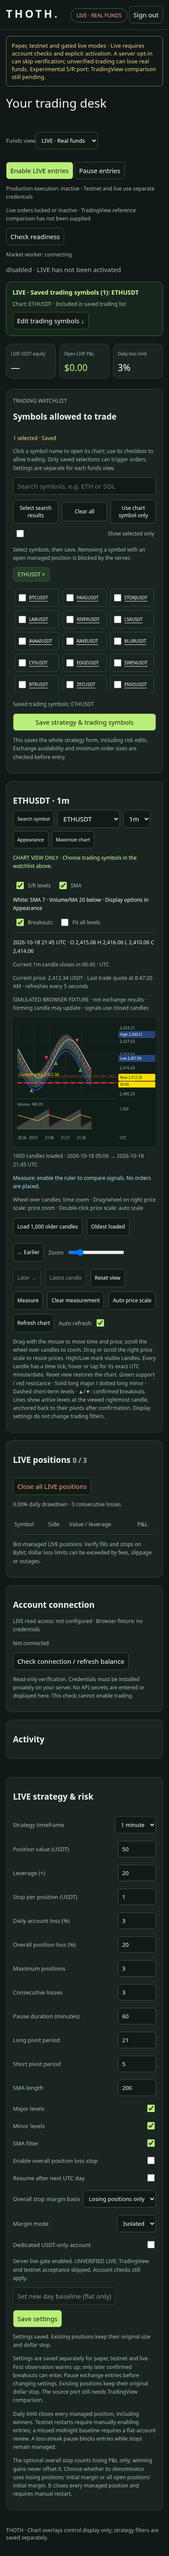
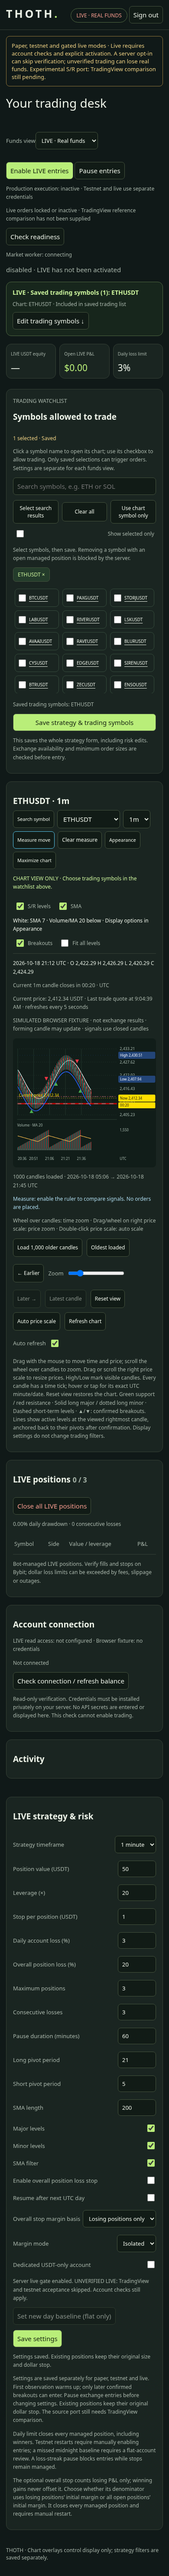
Make chart measurement a prominent one-shot mouse and touch tool

diff --git a/web/index.html b/web/index.html
@@ -1,3 +1,3 @@
 <!doctype html><html lang="en"><head><meta charset="utf-8"><meta name="viewport" content="width=device-width,initial-scale=1"><meta name="theme-color" content="#101918"><link rel="manifest" href="/manifest.webmanifest"><title>THOTH · Trading desk</title><style>
 *{box-sizing:border-box}[hidden]{display:none!important}body{margin:0;background:#101918;color:#edf3e8;font:15px system-ui}header,main{max-width:1150px;margin:auto;padding:24px}header{display:flex;justify-content:space-between;border-bottom:1px solid #354036}.brand{font-size:25px;letter-spacing:5px;font-weight:bold}small,p,label{color:#a8b5aa}h1{font-size:34px;font-weight:500}h2{font-size:19px}.badge,.green{color:#b9ee79}.badge{border:1px solid #536b43;padding:7px 12px;border-radius:20px;font-size:12px}.stats{display:grid;grid-template-columns:repeat(3,1fr);gap:14px}.card{padding:20px;background:#1a2521;border:1px solid #354036;border-radius:12px;margin-bottom:18px}.value{font-size:29px;margin-top:10px}.grid{display:grid;grid-template-columns:2fr 1fr;gap:20px;margin-top:6px}button,select,input{background:#111b16;color:#edf3e8;border:1px solid #45533e;border-radius:7px;padding:9px;font:inherit}button{cursor:pointer}.primary{background:#b9ee79;color:#13200f}label{display:flex;justify-content:space-between;align-items:center;margin:17px 0;font-size:13px}input[type=number]{width:88px}.row{display:flex;justify-content:space-between;gap:12px;align-items:center}svg{width:100%;height:290px}.legend{font-size:12px;line-height:1.8}table{width:100%;border-collapse:collapse;font-size:13px}td,th{padding:15px 3px;text-align:left;border-bottom:1px solid #354036}th{color:#a8b5aa;font-weight:400}.red{color:#fc9e91}.note{font-size:12px;line-height:1.6}.chips{display:flex;gap:12px;flex-wrap:wrap}.chips label{margin:8px 0;gap:6px}footer{font-size:12px;color:#a8b5aa;padding:20px 0}@media(max-width:750px){.grid{grid-template-columns:1fr}main,header{padding:16px}.stats{gap:8px}.stats .card{padding:12px}.value{font-size:23px}h1{font-size:29px}.row{flex-wrap:wrap}}
-</style><style>#coins{max-height:270px;overflow:auto}#events{padding-left:18px;font-size:12px;color:#a8b5aa;line-height:1.8}#price{width:110px}select{max-width:180px}input[type=search]{width:100%}dialog{max-width:min(480px,90vw);background:#1a2521;color:#edf3e8;border:1px solid #45533e;border-radius:12px}dialog input{max-width:100%}button:disabled{opacity:.5;cursor:not-allowed}fieldset:disabled{opacity:.65}.banner{border:1px solid #90753a;color:#ebce82;padding:12px;border-radius:8px;font-size:13px}</style><link rel="stylesheet" href="/desk.css"></head><body><header><div class="brand">THOTH<span class="green">.</span></div><div><span class="badge" id="fundsBadge">PAPER FUNDS</span> <button id="logout">Sign out</button></div></header><main><div class="banner">Paper, testnet and gated live modes · Live requires account checks and explicit activation. A server opt-in can skip verification; unverified trading can lose real funds. Experimental S/R port: TradingView comparison still pending.</div><div class="row"><h1>Your trading desk</h1><label>Funds view <select id="viewMode"><option value="paper">Paper simulation</option><option value="testnet">Bybit testnet</option><option value="live">LIVE · Real funds</option></select></label><div><button id="start" class="primary">Start paper mode</button> <button id="pause">Pause entries</button></div></div><p class="note"><span id="liveAccountState">Production execution: inactive</span> · Testnet and live use separate credentials</p><p id="readinessMessage" class="note" role="status">Readiness: checking…</p><button id="checkReadiness">Check readiness</button><p id="runnerHealth" class="note">Market worker: connecting</p><p id="status" role="status">Connecting to server…</p><section class="trade-summary" aria-label="Saved trading watchlist"><strong id="savedSymbols">Trading symbols: loading…</strong><p id="chartScope" class="note"></p><button id="editSymbols">Edit trading symbols ↓</button></section><div class="stats"><div class="card"><small id="equityLabel">Paper equity</small><div class="value" id="equity">—</div></div><div class="card"><small id="pnlLabel">Open paper P&L</small><div id="pnl" class="value green">—</div></div><div class="card"><small>Daily loss limit</small><div class="value"><span id="limit">—</span>%</div></div></div><div class="grid"><div><section class="card" id="symbolPanel"><div class="row"><div><small>TRADING WATCHLIST</small><h2>Symbols allowed to trade</h2></div><span id="selection" role="status"></span></div><p class="note">Click a symbol name to open its chart; use its checkbox to allow trading. Only saved selections can trigger orders. Settings are separate for each funds view.</p><input id="search" type="search" placeholder="Search symbols, e.g. ETH or SOL" aria-label="Search trading symbols"><div class="symbol-tools"><button id="selectVisible">Select search results</button><button id="clearSymbols">Clear all</button><button id="onlyChart">Use chart symbol only</button><label><input id="selectedOnly" type="checkbox"> Show selected only</label></div><p id="watchlistLock" class="note"></p><div id="selectedSymbols" class="selected-symbols" aria-label="Draft trading symbols"></div><div class="chips" id="coins"></div><p id="symbolSaveMessage" role="status" class="note"></p><button id="saveSymbols" class="primary">Save strategy &amp; trading symbols</button><p class="note">This saves the whole strategy form, including risk edits. Exchange availability and minimum order sizes are checked before entry.</p></section><section class="card" id="chartCard" role="region" aria-labelledby="title"><div class="row chart-heading"><h2 id="title">Market chart</h2><div><button id="chartSearch" type="button" aria-haspopup="dialog">Search symbol</button><select id="symbol" aria-label="Chart symbol (view only)"></select> <select id="tf" aria-label="Chart timeframe"><option value="1">1m</option><option value="D">1D</option></select><button id="appearanceToggle" type="button" aria-expanded="false" aria-controls="chartAppearance">Appearance</button><button id="maximizeChart" type="button" aria-expanded="false">Maximize chart</button></div></div><p class="chart-scope note">CHART VIEW ONLY · Choose trading symbols in the watchlist above.</p><div class="chart-layers"><label><input id="showLevels" type="checkbox" checked> S/R levels</label><label><input id="showSma" type="checkbox" checked> SMA</label><span class="note">White: SMA 7 · Volume/MA 20 below · Display options in Appearance</span><label><input id="showSignals" type="checkbox" checked> Breakouts</label><label><input id="fitLevels" type="checkbox"> Fit all levels</label></div><div class="chart-workspace"><div class="chart-canvas"><p id="candleInfo" class="note">Hover or tap a candle to inspect OHLC prices.</p><p id="candleCountdown" class="note" aria-label="Current candle countdown"></p><p id="quoteStatus" class="note" role="status">Current price: loading…</p><p id="chartStatus" class="note" role="status"></p><svg id="chart" viewBox="0 0 640 290" role="img" aria-label="Bybit candles and SMA"></svg><p id="historyStatus" class="note" role="status"></p><p id="measurementReadout" class="note" role="status">Measure: choose two points or drag between them. Price change excludes fees and leverage.</p><p id="chartNavigationStatus" class="note" role="status"></p><div class="chart-nav"><button id="loadOlderHistory">Load 1,000 older candles</button><button id="oldest">Oldest loaded</button><button id="older">← Earlier</button><label>Zoom <input id="zoom" type="range" min="20" max="500" value="70" aria-label="Visible candles"></label><button id="newer">Later →</button><button id="latest">Latest candle</button><button id="resetChartView">Reset view</button><button id="measureChart" aria-pressed="false">Measure</button><button id="clearMeasurement">Clear measurement</button><button id="autoPriceScale">Auto price scale</button><button id="refresh">Refresh chart</button><label>Auto refresh<input id="autoChart" type="checkbox" checked></label></div><p class="note">Drag with the mouse to move time and price; scroll the wheel over candles to zoom. Drag or scroll the right price scale to resize prices. High/Low mark visible candles. Every candle has a time tick; hover or tap for its exact UTC minute/date. Reset view restores the chart. Green support / red resistance · Solid long major / dotted long minor · Dashed short-term levels · ▲/▼: confirmed breakouts. Lines show active levels at the viewed rightmost candle, anchored back to their pivots after confirmation. Display settings do not change trading filters.</p></div><aside id="chartAppearance" class="appearance-panel" hidden><div class="row"><h3>Chart appearance</h3><button id="closeAppearance" type="button" aria-label="Close appearance panel">Close</button></div><p class="note">Display only. Saved in this browser, separately from strategy and risk.</p><div id="appearanceFields"></div><button id="resetAppearance" type="button">Restore screenshot styles</button><p id="appearanceStatus" class="note" role="status"></p></aside></div></section><section class="card"><div class="row"><h2><span id="positionsTitle">Paper positions</span> <small id="count"></small></h2><button class="red" id="close">Close all paper positions</button></div><p id="lossProgress" class="note"></p><div style="overflow:auto"><table><thead><tr><th>Symbol</th><th>Side</th><th>Value / leverage</th><th>P&L</th></tr></thead><tbody id="positions"></tbody></table></div><p id="positionNote" class="note"></p></section><section class="card"><h2>Account connection</h2><p id="accountStatus" class="note" role="status">Loading testnet configuration status…</p><p id="accountBalance" class="note" role="status"></p><button id="verifyAccount">Check connection / refresh balance</button><p class="note">Read-only verification. Credentials must be installed privately on your server. No API secrets are entered or displayed here. This check cannot enable trading.</p></section><section class="card" id="paperPanel"><h2>Manual paper test</h2><p class="note">Uses the chart symbol. This bypasses indicator logic to test positions and risk controls. Enter a simulated execution/mark price.</p><form id="paperOrder"><select id="side" aria-label="Paper direction"><option>Long</option><option>Short</option></select> <input id="price" type="number" min="0.00000001" step="any" placeholder="Price" aria-label="Paper price" required> <button>Paper entry / reversal</button> <button type="button" id="mark">Update mark</button></form></section><section class="card"><h2>Activity</h2><ul id="events"></ul></section></div><aside class="card"><h2 id="settingsTitle">Paper strategy & risk</h2><form id="settings"><fieldset id="settingsGroup" style="border:0;padding:0;margin:0;min-width:0"><label>Strategy timeframe<select id="strategyTf"><option value="1">1 minute</option><option value="D">Daily</option></select></label><div id="fields"></div><label>Overall stop margin basis<select id="portfolioBasis"><option value="losing_margin">Losing positions only</option><option value="all_margin">All open positions</option></select></label><div id="testnetControls" hidden><label>Margin mode<select id="marginMode"><option value="isolated">Isolated</option><option value="cross">Cross</option></select></label><label>Dedicated USDT-only account<input type="checkbox" id="dedicated"></label><p id="testnetModeNote" class="note"></p><button type="button" id="baseline">Set new day baseline (flat only)</button><ul id="execution" class="note"></ul></div><button class="primary">Save settings</button></fieldset><p id="message" role="status" class="note"></p></form><p class="note">Settings are saved separately for paper, testnet and live. First observation warms up; only later confirmed breakouts can enter. Pause exchange entries before changing settings. Existing positions keep their original dollar stop. The source port still needs TradingView comparison.</p><p class="note">Daily limit closes every managed position, including winners. Testnet restarts require manually enabling entries; a missed midnight baseline requires a flat-account review. A loss-streak pause blocks entries while stops remain managed.</p><p class="note">The optional overall stop counts losing P&L only; winning gains never offset it. Choose whether its denominator uses losing positions’ initial margin or all open positions’ initial margin. It closes every managed position and requires manual restart.</p></aside></div><footer>THOTH · Chart overlays control display only; strategy filters are saved separately.</footer><dialog id="testnetDialog"><h2 id="activationHeading">Enable Bybit TESTNET orders</h2><p id="activationDescription">This uses testnet funds, not production funds.</p><p id="activationSymbols" class="note"></p><p>Type <strong id="activationPhraseLabel">ENABLE TESTNET ORDERS</strong> to continue.</p><input id="testnetPhrase" autocomplete="off" aria-label="Testnet activation confirmation"><p id="activationError" role="status"></p><button id="activateTestnet" class="primary">Check account and enable</button> <button id="cancelActivation">Cancel</button></dialog><dialog id="chartSearchDialog"><h2>Find a chart symbol</h2><p class="note">Opens a chart only. Trading selection remains unchanged.</p><input id="chartSearchInput" type="search" placeholder="Search ETH, SOL…" aria-label="Search chart symbols"><p id="chartSearchCount" class="note"></p><div id="chartSearchResults" role="group" aria-label="Chart search results"></div><button id="closeChartSearch" type="button">Close</button></dialog><script src="/app.js" defer></script><script src="/chart-ui.js" defer></script><script src="/chart.js" defer></script></main></body></html>
+</style><style>#coins{max-height:270px;overflow:auto}#events{padding-left:18px;font-size:12px;color:#a8b5aa;line-height:1.8}#price{width:110px}select{max-width:180px}input[type=search]{width:100%}dialog{max-width:min(480px,90vw);background:#1a2521;color:#edf3e8;border:1px solid #45533e;border-radius:12px}dialog input{max-width:100%}button:disabled{opacity:.5;cursor:not-allowed}fieldset:disabled{opacity:.65}.banner{border:1px solid #90753a;color:#ebce82;padding:12px;border-radius:8px;font-size:13px}</style><link rel="stylesheet" href="/desk.css"></head><body><header><div class="brand">THOTH<span class="green">.</span></div><div><span class="badge" id="fundsBadge">PAPER FUNDS</span> <button id="logout">Sign out</button></div></header><main><div class="banner">Paper, testnet and gated live modes · Live requires account checks and explicit activation. A server opt-in can skip verification; unverified trading can lose real funds. Experimental S/R port: TradingView comparison still pending.</div><div class="row"><h1>Your trading desk</h1><label>Funds view <select id="viewMode"><option value="paper">Paper simulation</option><option value="testnet">Bybit testnet</option><option value="live">LIVE · Real funds</option></select></label><div><button id="start" class="primary">Start paper mode</button> <button id="pause">Pause entries</button></div></div><p class="note"><span id="liveAccountState">Production execution: inactive</span> · Testnet and live use separate credentials</p><p id="readinessMessage" class="note" role="status">Readiness: checking…</p><button id="checkReadiness">Check readiness</button><p id="runnerHealth" class="note">Market worker: connecting</p><p id="status" role="status">Connecting to server…</p><section class="trade-summary" aria-label="Saved trading watchlist"><strong id="savedSymbols">Trading symbols: loading…</strong><p id="chartScope" class="note"></p><button id="editSymbols">Edit trading symbols ↓</button></section><div class="stats"><div class="card"><small id="equityLabel">Paper equity</small><div class="value" id="equity">—</div></div><div class="card"><small id="pnlLabel">Open paper P&L</small><div id="pnl" class="value green">—</div></div><div class="card"><small>Daily loss limit</small><div class="value"><span id="limit">—</span>%</div></div></div><div class="grid"><div><section class="card" id="symbolPanel"><div class="row"><div><small>TRADING WATCHLIST</small><h2>Symbols allowed to trade</h2></div><span id="selection" role="status"></span></div><p class="note">Click a symbol name to open its chart; use its checkbox to allow trading. Only saved selections can trigger orders. Settings are separate for each funds view.</p><input id="search" type="search" placeholder="Search symbols, e.g. ETH or SOL" aria-label="Search trading symbols"><div class="symbol-tools"><button id="selectVisible">Select search results</button><button id="clearSymbols">Clear all</button><button id="onlyChart">Use chart symbol only</button><label><input id="selectedOnly" type="checkbox"> Show selected only</label></div><p id="watchlistLock" class="note"></p><div id="selectedSymbols" class="selected-symbols" aria-label="Draft trading symbols"></div><div class="chips" id="coins"></div><p id="symbolSaveMessage" role="status" class="note"></p><button id="saveSymbols" class="primary">Save strategy &amp; trading symbols</button><p class="note">This saves the whole strategy form, including risk edits. Exchange availability and minimum order sizes are checked before entry.</p></section><section class="card" id="chartCard" role="region" aria-labelledby="title"><div class="row chart-heading"><h2 id="title">Market chart</h2><div><button id="chartSearch" type="button" aria-haspopup="dialog">Search symbol</button><select id="symbol" aria-label="Chart symbol (view only)"></select> <select id="tf" aria-label="Chart timeframe"><option value="1">1m</option><option value="D">1D</option></select><button id="measureChart" type="button" aria-pressed="false">Measure move</button><button id="clearMeasurement" type="button">Clear measure</button><button id="appearanceToggle" type="button" aria-expanded="false" aria-controls="chartAppearance">Appearance</button><button id="maximizeChart" type="button" aria-expanded="false">Maximize chart</button></div></div><p class="chart-scope note">CHART VIEW ONLY · Choose trading symbols in the watchlist above.</p><div class="chart-layers"><label><input id="showLevels" type="checkbox" checked> S/R levels</label><label><input id="showSma" type="checkbox" checked> SMA</label><span class="note">White: SMA 7 · Volume/MA 20 below · Display options in Appearance</span><label><input id="showSignals" type="checkbox" checked> Breakouts</label><label><input id="fitLevels" type="checkbox"> Fit all levels</label></div><div class="chart-workspace"><div class="chart-canvas"><p id="candleInfo" class="note">Hover or tap a candle to inspect OHLC prices.</p><p id="candleCountdown" class="note" aria-label="Current candle countdown"></p><p id="quoteStatus" class="note" role="status">Current price: loading…</p><p id="chartStatus" class="note" role="status"></p><svg id="chart" viewBox="0 0 640 290" role="img" aria-label="Bybit candles and SMA"></svg><p id="historyStatus" class="note" role="status"></p><p id="measurementReadout" class="note" role="status">Measure: choose two points or drag between them. Price change excludes fees and leverage.</p><p id="chartNavigationStatus" class="note" role="status"></p><div class="chart-nav"><button id="loadOlderHistory">Load 1,000 older candles</button><button id="oldest">Oldest loaded</button><button id="older">← Earlier</button><label>Zoom <input id="zoom" type="range" min="20" max="500" value="70" aria-label="Visible candles"></label><button id="newer">Later →</button><button id="latest">Latest candle</button><button id="resetChartView">Reset view</button><button id="autoPriceScale">Auto price scale</button><button id="refresh">Refresh chart</button><label>Auto refresh<input id="autoChart" type="checkbox" checked></label></div><p class="note">Drag with the mouse to move time and price; scroll the wheel over candles to zoom. Drag or scroll the right price scale to resize prices. High/Low mark visible candles. Every candle has a time tick; hover or tap for its exact UTC minute/date. Reset view restores the chart. Green support / red resistance · Solid long major / dotted long minor · Dashed short-term levels · ▲/▼: confirmed breakouts. Lines show active levels at the viewed rightmost candle, anchored back to their pivots after confirmation. Display settings do not change trading filters.</p></div><aside id="chartAppearance" class="appearance-panel" hidden><div class="row"><h3>Chart appearance</h3><button id="closeAppearance" type="button" aria-label="Close appearance panel">Close</button></div><p class="note">Display only. Saved in this browser, separately from strategy and risk.</p><div id="appearanceFields"></div><button id="resetAppearance" type="button">Restore screenshot styles</button><p id="appearanceStatus" class="note" role="status"></p></aside></div></section><section class="card"><div class="row"><h2><span id="positionsTitle">Paper positions</span> <small id="count"></small></h2><button class="red" id="close">Close all paper positions</button></div><p id="lossProgress" class="note"></p><div style="overflow:auto"><table><thead><tr><th>Symbol</th><th>Side</th><th>Value / leverage</th><th>P&L</th></tr></thead><tbody id="positions"></tbody></table></div><p id="positionNote" class="note"></p></section><section class="card"><h2>Account connection</h2><p id="accountStatus" class="note" role="status">Loading testnet configuration status…</p><p id="accountBalance" class="note" role="status"></p><button id="verifyAccount">Check connection / refresh balance</button><p class="note">Read-only verification. Credentials must be installed privately on your server. No API secrets are entered or displayed here. This check cannot enable trading.</p></section><section class="card" id="paperPanel"><h2>Manual paper test</h2><p class="note">Uses the chart symbol. This bypasses indicator logic to test positions and risk controls. Enter a simulated execution/mark price.</p><form id="paperOrder"><select id="side" aria-label="Paper direction"><option>Long</option><option>Short</option></select> <input id="price" type="number" min="0.00000001" step="any" placeholder="Price" aria-label="Paper price" required> <button>Paper entry / reversal</button> <button type="button" id="mark">Update mark</button></form></section><section class="card"><h2>Activity</h2><ul id="events"></ul></section></div><aside class="card"><h2 id="settingsTitle">Paper strategy & risk</h2><form id="settings"><fieldset id="settingsGroup" style="border:0;padding:0;margin:0;min-width:0"><label>Strategy timeframe<select id="strategyTf"><option value="1">1 minute</option><option value="D">Daily</option></select></label><div id="fields"></div><label>Overall stop margin basis<select id="portfolioBasis"><option value="losing_margin">Losing positions only</option><option value="all_margin">All open positions</option></select></label><div id="testnetControls" hidden><label>Margin mode<select id="marginMode"><option value="isolated">Isolated</option><option value="cross">Cross</option></select></label><label>Dedicated USDT-only account<input type="checkbox" id="dedicated"></label><p id="testnetModeNote" class="note"></p><button type="button" id="baseline">Set new day baseline (flat only)</button><ul id="execution" class="note"></ul></div><button class="primary">Save settings</button></fieldset><p id="message" role="status" class="note"></p></form><p class="note">Settings are saved separately for paper, testnet and live. First observation warms up; only later confirmed breakouts can enter. Pause exchange entries before changing settings. Existing positions keep their original dollar stop. The source port still needs TradingView comparison.</p><p class="note">Daily limit closes every managed position, including winners. Testnet restarts require manually enabling entries; a missed midnight baseline requires a flat-account review. A loss-streak pause blocks entries while stops remain managed.</p><p class="note">The optional overall stop counts losing P&L only; winning gains never offset it. Choose whether its denominator uses losing positions’ initial margin or all open positions’ initial margin. It closes every managed position and requires manual restart.</p></aside></div><footer>THOTH · Chart overlays control display only; strategy filters are saved separately.</footer><dialog id="testnetDialog"><h2 id="activationHeading">Enable Bybit TESTNET orders</h2><p id="activationDescription">This uses testnet funds, not production funds.</p><p id="activationSymbols" class="note"></p><p>Type <strong id="activationPhraseLabel">ENABLE TESTNET ORDERS</strong> to continue.</p><input id="testnetPhrase" autocomplete="off" aria-label="Testnet activation confirmation"><p id="activationError" role="status"></p><button id="activateTestnet" class="primary">Check account and enable</button> <button id="cancelActivation">Cancel</button></dialog><dialog id="chartSearchDialog"><h2>Find a chart symbol</h2><p class="note">Opens a chart only. Trading selection remains unchanged.</p><input id="chartSearchInput" type="search" placeholder="Search ETH, SOL…" aria-label="Search chart symbols"><p id="chartSearchCount" class="note"></p><div id="chartSearchResults" role="group" aria-label="Chart search results"></div><button id="closeChartSearch" type="button">Close</button></dialog><script src="/app.js" defer></script><script src="/chart-ui.js" defer></script><script src="/chart.js" defer></script></main></body></html>

diff --git a/web/chart.js b/web/chart.js
@@ -72,23 +72,24 @@ function draw(){
 
  for(const trade of current().trades.filter(t=>t.symbol===$('symbol').value))for(const [stamp,label,color]of [[trade.opened_at,'E','#d7f7ca'],[trade.closed_at,'X','#ffaaa1']]){const t=typeof stamp==='number'?(stamp>1e12?stamp/1000:stamp):Date.parse(stamp)/1000;const i=rows.findIndex((r,j)=>t>=r.time&&t<(rows[j+1]?.time??r.time+($('tf').value==='1'?60:86400)));if(i>=0)shape('text',{x:x(i),y:20,fill:color,'font-size':12,'text-anchor':'middle'}).textContent=label}
  if(chartMeasurement){const m=chartMeasurement,endPoint=m.end||m.start;const project=point=>{const absolute=chartRows.findIndex(r=>r.time===point.time),relative=absolute>=0?absolute-(end-rows.length):(point.time-rows[0].time)/($('tf').value==='D'?86400:60);return {x:x(relative),y:y(point.price)}};const a=project(m.start),b=project(endPoint),color=endPoint.price>=m.start.price?'#57c6ec':'#ff9c9c';const group=shape('g',{'data-measurement':'true'},plot);shape('rect',{x:Math.min(a.x,b.x),y:Math.min(a.y,b.y),width:Math.max(1,Math.abs(b.x-a.x)),height:Math.max(1,Math.abs(b.y-a.y)),fill:color,'fill-opacity':.15,stroke:color,'stroke-dasharray':'5 4'},group);shape('path',{d:`M${a.x} ${a.y} L${b.x} ${b.y}`,stroke:color,'stroke-width':1.5},group);for(const point of [a,b])shape('circle',{cx:point.x,cy:point.y,r:4,fill:color},group);
-  if(m.end){const stats=measurementStats(m.start,m.end,chartRows),days=Math.floor(stats.seconds/86400),hours=Math.floor(stats.seconds%86400/3600),minutes=Math.floor(stats.seconds%3600/60);$('measurementReadout').textContent='Price move: '+(stats.delta>=0?'+':'')+marketPrice(stats.delta)+' USDT ('+(stats.percent>=0?'+':'')+stats.percent.toFixed(2)+'%) · '+(stats.bars??'—')+' candle intervals · '+(days?days+'d ':'')+(hours?hours+'h ':'')+minutes+'m · '+marketPrice(m.start.price)+' → '+marketPrice(m.end.price)+' · fees/leverage excluded'}else $('measurementReadout').textContent='First point set · Click a second point or drag to measure.';
- }else $('measurementReadout').textContent=rulerMode?'Measure ON · Click two points or drag between them. Price change excludes fees and leverage.':'Measure: enable the ruler to compare signals. No orders are placed.';
- function rulerPoint(e){const rect=svg.getBoundingClientRect(),px=(e.clientX-rect.left)/rect.width*W,py=(e.clientY-rect.top)/rect.height*H,index=Math.max(0,Math.min(rows.length-1,Math.floor((px-L)/step)));return {time:rows[index].time,price:Math.max(.000000000001,min+(B-py)/(B-T)*(max-min))}}
+  if(m.end){const stats=measurementStats(m.start,m.end,chartRows),days=Math.floor(stats.seconds/86400),hours=Math.floor(stats.seconds%86400/3600),minutes=Math.floor(stats.seconds%3600/60);$('measurementReadout').textContent='Price move: '+(stats.delta>=0?'+':'')+marketPrice(stats.delta)+' USDT ('+(stats.percent>=0?'+':'')+stats.percent.toFixed(2)+'%) · '+(stats.bars??'—')+' candle intervals · '+(days?days+'d ':'')+(hours?hours+'h ':'')+minutes+'m · '+marketPrice(m.start.price)+' → '+marketPrice(m.end.price)+' · fees/leverage excluded';const labelWidth=Math.min(225,P-16),labelX=Math.max(L+8,Math.min(R-labelWidth-8,(a.x+b.x)/2-labelWidth/2)),labelY=Math.max(T+8,Math.min(B-52,Math.min(a.y,b.y)-50)),summary=shape('g',{'data-ruler-summary':'true'},group);shape('rect',{x:labelX,y:labelY,width:labelWidth,height:42,rx:5,fill:'#173947',stroke:color},summary);shape('text',{x:labelX+8,y:labelY+16,fill:'#f2faff','font-size':12},summary).textContent=(stats.percent>=0?'+':'')+stats.percent.toFixed(2)+'% · '+(stats.delta>=0?'+':'')+marketPrice(stats.delta)+' USDT';shape('text',{x:labelX+8,y:labelY+32,fill:'#c2e7f0','font-size':11},summary).textContent=(stats.bars??'—')+' candle intervals · '+(days?days+'d ':'')+(hours?hours+'h ':'')+minutes+'m'}else $('measurementReadout').textContent='First point set · Click a second point or drag to measure.';
+ }else $('measurementReadout').textContent=rulerMode?'Measure ON · Hold and drag to the second point, then release. Or click the first and second points. The result stays on the chart.':'Measure: enable the ruler to compare signals. No orders are placed.';
+ function chartPointer(e){const matrix=svg.getScreenCTM();if(matrix)return new DOMPoint(e.clientX,e.clientY).matrixTransform(matrix.inverse());const rect=svg.getBoundingClientRect();return {x:(e.clientX-rect.left)/rect.width*W,y:(e.clientY-rect.top)/rect.height*H}}
+ function rulerPoint(e){const point=chartPointer(e),px=point.x,py=point.y,index=Math.max(0,Math.min(rows.length-1,Math.floor((px-L)/step)));return {time:rows[index].time,price:Math.max(.000000000001,min+(B-py)/(B-T)*(max-min))}}
  const cross=shape('path',{d:'',stroke:'#d8e5dd','stroke-dasharray':'3 4',opacity:.5,'pointer-events':'none'},plot);
  const dot=shape('circle',{r:3,fill:'#edf3e8',visibility:'hidden','pointer-events':'none'},plot);
  const timeTag=shape('g',{'data-crosshair-time':'true',visibility:'hidden','pointer-events':'none'}),timeBox=shape('rect',{height:20,rx:3,fill:'#354d40'},timeTag),timeText=shape('text',{fill:'#f4f7f2','font-size':10,'text-anchor':'middle'},timeTag);
  function inspect(i,show=true){const r=rows[i];$('candleInfo').textContent=new Date(r.time*1000).toISOString().replace('T',' ').slice(0,16)+' UTC · O '+price(r.open)+'  H '+price(r.high)+'  L '+price(r.low)+'  C '+price(r.close);if(show){cross.setAttribute('d',`M${x(i)} ${T} V${B} M${L} ${y(r.close)} H${R}`);dot.setAttribute('cx',x(i));dot.setAttribute('cy',y(r.close));dot.setAttribute('visibility','visible');const text=new Date(r.time*1000).toISOString();timeText.textContent=(daily?text.slice(0,10):text.slice(0,10)+' '+text.slice(11,16))+' UTC';const width=daily?100:145,xx=Math.max(L+width/2,Math.min(R-width/2,x(i)));timeBox.setAttribute('x',xx-width/2);timeBox.setAttribute('y',H-20);timeBox.setAttribute('width',width);timeText.setAttribute('x',xx);timeText.setAttribute('y',H-6);timeTag.setAttribute('visibility','visible')}}
  const inspectedIndex=rows.findIndex(r=>r.time===inspectedCandle);inspect(inspectedIndex>=0?inspectedIndex:rows.length-1,false);
  function point(e){const rect=svg.getBoundingClientRect(),px=(e.clientX-rect.left)/rect.width*W;const i=Math.max(0,Math.min(rows.length-1,Math.floor((px-L)/step)));inspectedCandle=rows[i].time;inspect(i)}
- svg.onpointerdown=e=>{if(e.button!==0)return;const bounds=svg.getBoundingClientRect(),px=(e.clientX-bounds.left)/bounds.width*W,py=(e.clientY-bounds.top)/bounds.height*H;if(rulerMode&&px>=L&&px<=R&&py>=T&&py<=B){const point=rulerPoint(e);if(!chartMeasurement||chartMeasurement.end)chartMeasurement={start:point,end:null};else chartMeasurement.end=point;rulerPointer={id:e.pointerId,x:e.clientX,y:e.clientY};suppressChartClick=true;svg.setPointerCapture(e.pointerId);draw();return;}const rect=svg.getBoundingClientRect(),axisDrag=(e.clientX-rect.left)/rect.width*W>=R;chartDrag={axis:axisDrag,zoom:chartPriceZoom,id:e.pointerId,startX:e.clientX,startY:e.clientY,offset:chartOffset,step:step*svg.getBoundingClientRect().width/W,priceShift:chartPriceShift,pricePerPixel:chartGeometry.pricePerPixel,moved:false};suppressChartClick=false;svg.setPointerCapture(e.pointerId)};
+ svg.onpointerdown=e=>{if(e.button!==0)return;const pointer=chartPointer(e),px=pointer.x,py=pointer.y;if(rulerMode&&px>=L&&px<=R&&py>=T&&py<=B){const point=rulerPoint(e);if(!chartMeasurement||chartMeasurement.end)chartMeasurement={start:point,end:null};else chartMeasurement.end=point;rulerPointer={id:e.pointerId,x:e.clientX,y:e.clientY};suppressChartClick=true;svg.setPointerCapture(e.pointerId);draw();return;}const rect=svg.getBoundingClientRect(),axisDrag=(e.clientX-rect.left)/rect.width*W>=R;chartDrag={axis:axisDrag,zoom:chartPriceZoom,id:e.pointerId,startX:e.clientX,startY:e.clientY,offset:chartOffset,step:step*svg.getBoundingClientRect().width/W,priceShift:chartPriceShift,pricePerPixel:chartGeometry.pricePerPixel,moved:false};suppressChartClick=false;svg.setPointerCapture(e.pointerId)};
  svg.onpointermove=e=>{
   if(rulerPointer?.id===e.pointerId){if(Math.hypot(e.clientX-rulerPointer.x,e.clientY-rulerPointer.y)>=3){chartMeasurement.end=rulerPoint(e);draw()}return;}
   if(chartDrag&&chartDrag.id===e.pointerId){const dx=e.clientX-chartDrag.startX,dy=e.clientY-chartDrag.startY;if(!chartDrag.moved&&Math.max(Math.abs(dx),Math.abs(dy))<5)return;if(e.pointerType==='touch'&&!chartDrag.moved&&Math.abs(dy)>Math.abs(dx))return;chartDrag.moved=true;suppressChartClick=true;if(chartDrag.axis){chartPriceZoom=Math.max(.05,Math.min(30,chartDrag.zoom*Math.exp(-dy/180)));draw();return;}svg.classList.add('dragging');const next=Math.max(0,Math.min(Math.max(0,chartRows.length-visibleBars),chartDrag.offset+Math.round(dx/chartDrag.step)));const shift=e.pointerType==='touch'?chartDrag.priceShift:chartDrag.priceShift+dy*chartDrag.pricePerPixel;if(next!==chartOffset||shift!==chartPriceShift){chartOffset=next;chartPriceShift=shift;inspectedCandle=null;draw()}return}
   if(e.pointerType==='mouse')point(e);
  };
- function endDrag(e){if(rulerPointer?.id===e.pointerId){rulerPointer=null;if(svg.hasPointerCapture(e.pointerId))svg.releasePointerCapture(e.pointerId);draw();return;}if(chartDrag?.id===e.pointerId){chartDrag=null;svg.classList.remove('dragging');if(svg.hasPointerCapture(e.pointerId))svg.releasePointerCapture(e.pointerId)}}
- svg.onpointerup=endDrag;svg.onpointercancel=endDrag;svg.onlostpointercapture=()=>{rulerPointer=null;chartDrag=null;svg.classList.remove('dragging')};
+ function endDrag(e){if(rulerPointer?.id===e.pointerId){rulerPointer=null;if(chartMeasurement?.end)setRulerMode(false);if(svg.hasPointerCapture(e.pointerId))svg.releasePointerCapture(e.pointerId);draw();return;}if(chartDrag?.id===e.pointerId){chartDrag=null;svg.classList.remove('dragging');if(svg.hasPointerCapture(e.pointerId))svg.releasePointerCapture(e.pointerId)}}
+ svg.onpointerup=endDrag;svg.onpointercancel=endDrag;svg.onlostpointercapture=e=>{if(e.target!==svg||svg.hasPointerCapture(e.pointerId))return;rulerPointer=null;chartDrag=null;svg.classList.remove('dragging')};
  svg.ondblclick=e=>{const rect=svg.getBoundingClientRect();if((e.clientX-rect.left)/rect.width*W>=R){chartPriceZoom=1;chartPriceShift=0;draw()}};
  svg.onclick=e=>{if(rulerMode)return;if(suppressChartClick){suppressChartClick=false;return}point(e)};
  svg.onpointerleave=()=>{if(!chartDrag){cross.setAttribute('d','');dot.setAttribute('visibility','hidden');timeTag.setAttribute('visibility','hidden')}};

diff --git a/web/chart-ui.js b/web/chart-ui.js
@@ -88,6 +88,7 @@ function measurementStats(start,end,rows){
  const a=rows.findIndex(r=>r.time===start.time),b=rows.findIndex(r=>r.time===end.time);
  return {delta,percent,bars:a>=0&&b>=0?Math.abs(b-a):null,seconds:Math.abs(end.time-start.time)};
 }
-$('measureChart').onclick=()=>{rulerMode=!rulerMode;rulerPointer=null;$('measureChart').setAttribute('aria-pressed',String(rulerMode));$('measureChart').textContent=rulerMode?'Measure: ON':'Measure';draw()};
-$('clearMeasurement').onclick=()=>{chartMeasurement=null;rulerPointer=null;draw()};
+function setRulerMode(enabled){rulerMode=enabled;rulerPointer=null;$('measureChart').setAttribute('aria-pressed',String(enabled));$('measureChart').textContent=enabled?'Cancel measure':'Measure move'}
+$('measureChart').onclick=()=>{const enabled=!rulerMode;setRulerMode(enabled);if(enabled||!chartMeasurement?.end)chartMeasurement=null;draw()};
+$('clearMeasurement').onclick=()=>{chartMeasurement=null;setRulerMode(false);draw()};
 $('oldest').onclick=()=>{chartOffset=Math.max(0,chartRows.length-visibleBars);chartPriceShift=0;chartPriceZoom=1;draw()};

diff --git a/web/desk.css b/web/desk.css
@@ -4,3 +4,5 @@ main,header{max-width:1440px}.grid{grid-template-columns:minmax(0,2.5fr) minmax(
 #chart [data-price-axis],#chart [data-price-tick],#chart [data-extreme]{cursor:ns-resize}
 
 #chart.ruler-mode{cursor:crosshair}#measureChart[aria-pressed=true]{background:#1c5260;border-color:#57c6ec;color:#e5faff}#measurementReadout{color:#acd9ec;font-variant-numeric:tabular-nums;overflow-wrap:anywhere}
+
+#chart.ruler-mode{touch-action:none}#measureChart{border-color:#57c6ec}#clearMeasurement{font-size:12px}

diff --git a/tools/browser_smoke.py b/tools/browser_smoke.py
@@ -100,6 +100,7 @@ with tempfile.TemporaryDirectory(prefix='thoth-ui-') as d:
    expect(page.locator('#symbol')).to_have_value('SOLUSDT')
    assert len(writes)==write_count and writes[-1][1]['symbols']==saved_before
    # Actual horizontal drag in both directions, including pointer capture across redraws.
+   page.locator('#chart').scroll_into_view_if_needed()
    box=page.locator('#chart').bounding_box();sx=box['x']+box['width']*.45;sy=box['y']+box['height']*.5
    page.mouse.move(sx,sy);page.mouse.down();page.mouse.move(sx+90,sy,steps=6);page.mouse.up()
    offset=page.evaluate('() => chartOffset');assert offset>0,offset
@@ -128,15 +129,20 @@ with tempfile.TemporaryDirectory(prefix='thoth-ui-') as d:
    box=page.locator('#chart').bounding_box();sx=box['x']+box['width']*.25;sy=box['y']+box['height']*.3
    page.mouse.move(sx,sy);page.mouse.down();page.mouse.move(sx+80,sy-30,steps=6);page.mouse.up()
    expect(page.locator('[data-measurement]')).to_have_count(1)
+   expect(page.locator('#measureChart')).to_have_attribute('aria-pressed','false')
+   expect(page.locator('[data-ruler-summary]')).to_contain_text('%')
+   finished=page.locator('#measurementReadout').text_content();page.mouse.move(sx+110,sy+20)
+   expect(page.locator('#measurementReadout')).to_have_text(finished)
    expect(page.locator('#measurementReadout')).to_contain_text('Price move:')
    expect(page.locator('#measurementReadout')).to_contain_text('candle intervals')
    stats=page.evaluate('() => measurementStats({time:0,price:100},{time:120,price:105},[{time:0},{time:60},{time:120}])')
    assert stats==dict(delta=5,percent=5,bars=2,seconds=120),stats
    page.click('#clearMeasurement');expect(page.locator('[data-measurement]')).to_have_count(0)
+   page.click('#measureChart')
    page.locator('#chart').click(position={'x':90,'y':80});expect(page.locator('#measurementReadout')).to_contain_text('First point set')
    page.locator('#chart').click(position={'x':180,'y':120});expect(page.locator('#measurementReadout')).to_contain_text('Price move:')
    page.click('#clearMeasurement')
-   page.click('#measureChart');expect(page.locator('#measureChart')).to_have_attribute('aria-pressed','false')
+   expect(page.locator('#measureChart')).to_have_attribute('aria-pressed','false')
    # Price-axis zoom changes only price span, not candle count or symbol settings.
    page.locator('#chart').scroll_into_view_if_needed();box=page.locator('#chart').bounding_box()
    ax=box['x']+box['width']-25;ay=box['y']+box['height']*.5
@@ -268,6 +274,23 @@ with tempfile.TemporaryDirectory(prefix='thoth-ui-') as d:
    assert page.locator('#chartCard').bounding_box()['y']==0
    page.screenshot(path=str(root/'docs/mobile-interactive-chart-fixture.png'))
    page.click('#maximizeChart')
+   # Real touch events exercise Android measurement without native page scrolling.
+   page.click('#measureChart');page.locator('#chart').scroll_into_view_if_needed()
+   expect(page.locator('#chart')).to_have_css('touch-action','none')
+   box=page.locator('#chart').bounding_box();tx=box['x']+box['width']*.2;ty=box['y']+box['height']*.3
+   touch=page.context.new_cdp_session(page);touch.send('Emulation.setTouchEmulationEnabled',{'enabled':True,'maxTouchPoints':1})
+   touch.send('Input.dispatchTouchEvent',{'type':'touchStart','touchPoints':[{'x':tx,'y':ty}]})
+   for step in range(1,7):touch.send('Input.dispatchTouchEvent',{'type':'touchMove','touchPoints':[{'x':tx+step*10,'y':ty-step*4}]})
+   touch.send('Input.dispatchTouchEvent',{'type':'touchEnd','touchPoints':[]})
+   expect(page.locator('#measureChart')).to_have_attribute('aria-pressed','false')
+   expect(page.locator('[data-ruler-summary]')).to_contain_text('%')
+   expect(page.locator('#measurementReadout')).to_contain_text('candle intervals')
+   page.locator('#chartCard').screenshot(path=str(root/'docs/mobile-measurement-fixture.png'))
+   page.click('#clearMeasurement')
+   page.click('#measureChart');page.locator('#chart').click(position={'x':100,'y':80})
+   expect(page.locator('#measurementReadout')).to_contain_text('First point set')
+   page.click('#measureChart');expect(page.locator('#measureChart')).to_have_attribute('aria-pressed','false')
+   expect(page.locator('[data-measurement]')).to_have_count(0)
    page.screenshot(path=str(root/'docs/mobile-watchlist-fixture.png'),full_page=True)
    page.click('#loadOlderHistory');expect(page.locator('#historyStatus')).to_contain_text('2000 candles loaded',timeout=10000)
    page.click('#oldest');expect(page.locator('#older')).to_be_disabled()
@@ -287,6 +310,6 @@ with tempfile.TemporaryDirectory(prefix='thoth-ui-') as d:
    assert not errors,errors
    assert not activation,activation
    browser.close()
-  print('PASS: desktop/mobile watchlist, separate saved/draft/chart symbols, saves, active-entry lock, mouse dragging in time/price, wheel zoom/reset, right price-axis zoom, visible High/Low, synchronized current price/candle, fixed price-label geometry, second-by-second candle countdown, paginated history, price/time ruler, yellow current price, right spacing, volume MA20 and white SMA7, minute/day ticks, save-to-chart synchronization, maximization, chart search, S/R ray styles, appearance persistence/reset, mode separation, no JS errors/overflow, no activation requests')
+  print('PASS: desktop/mobile watchlist, separate saved/draft/chart symbols, saves, active-entry lock, mouse dragging in time/price, wheel zoom/reset, right price-axis zoom, visible High/Low, synchronized current price/candle, fixed price-label geometry, second-by-second candle countdown, paginated history, one-shot mouse/touch price/time ruler, yellow current price, right spacing, volume MA20 and white SMA7, minute/day ticks, save-to-chart synchronization, maximization, chart search, S/R ray styles, appearance persistence/reset, mode separation, no JS errors/overflow, no activation requests')
  finally:
   server.terminate();server.wait(timeout=15);log.close()

diff --git a/README.md b/README.md
@@ -172,6 +172,10 @@ A second-by-second countdown appears under the yellow current-price tag and abov
 
 Extended S/R signals are a separate historical replay of fetched data. They never update execution checkpoints or send orders. As additional warm-up history becomes available, early inferred levels/signals can change; they are not a backtest or a substitute for execution logs and TradingView comparison. More data increases chart-load time.
 
-Enable **Measure**, then click two chart points or drag between them. The ruler reports signed USDT price change, percentage from the start price, candle intervals and elapsed time; endpoints stay attached to their price/time coordinates while panning. **Clear measurement** removes it. This is a chart price measurement, excluding leverage, fees, funding, liquidation and realized trade performance. It does not select trading symbols or submit orders.
+Activate **Measure move**, then click two chart points or drag between them. The ruler reports signed USDT price change, percentage from the start price, candle intervals and elapsed time; endpoints stay attached to their price/time coordinates while panning. **Clear measure** removes it. This is a chart price measurement, excluding leverage, fees, funding, liquidation and realized trade performance. It does not select trading symbols or submit orders.
 
 Extended-history snapshots refresh only on request to limit server work. **Latest candle** returns to the normal 1,000-candle live view and resumes automatic candle refresh. Quote refresh remains separate. The public historical-page cache is also reduced.
+
+### Measure move button
+
+The **Measure move** button is now in the chart's top toolbar. Activate it, then hold/drag/release or click a start and end point. Measurement input automatically stops at the second point; its percentage, signed price move, candle intervals and elapsed time stay visible on the chart. Ordinary dragging returns to panning. Click **Measure move** again for a new measurement or **Clear measure** to remove it. While measuring, Android touch drags stay in the chart instead of scrolling the page. The ruler uses SVG screen coordinates so responsive chart scaling does not shift the selected points. This remains a display-only price measurement, not an order or leveraged P&L calculation.
